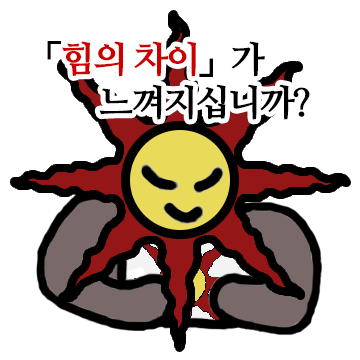
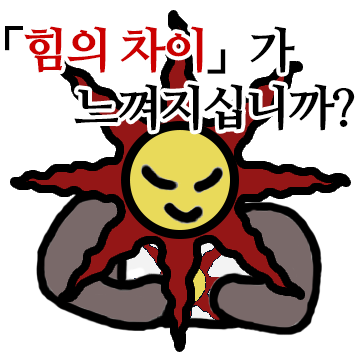
Jaws v0.1.12
- 이모티콘 추가 (제리감사)
- 이모티콘 수정 (힘의차이)
- 이모티콘 제거 (힘의차이)

Changed region(s): [[0.0611, 0.0611, 1.0, 0.3972], [0.0, 0.0611, 0.0611, 0.1528]]

diff --git a/lib/dccon_list.js b/lib/dccon_list.js
@@ -5,11 +5,13 @@ dcConsData = [
 	{ name: "죠하.png", keywords: ["죠하"] },
 	{ name: "죠바.png", keywords: ["죠바"] },
 
+	// 톰과제리
+	{ name: "제리감사.png", keywords: ["감사", "제리감사"] },
+
 	// 다크소울
 	{ name: "태양만세.jpg", keywords: ["태양만세", "Y"] },
 	{ name: "죠스힘의차이.png", keywords: ["힘의차이", "power"] },
 	{ name: "솔라힘의차이.png", keywords: ["힘의차이2", "힘의차2", "power2"] },	
-	{ name: "죠스힘의차이2.png", keywords: ["힘의차이3", "power3"] },
 
 	// 래트로폴리스
 	{ name: "래트로_도공.png", keywords: ["도공"] },

diff --git a/README.md b/README.md
@@ -1,6 +1,6 @@
 # 죠스콘
 ## 게임하는 죠스님을 위한 BBCC 디씨콘 채팅창 (Bridge BBCC for pgjaws)
-JawsBridgeBBCC v0.1.11
+JawsBridgeBBCC v0.1.12
 
 ## 설정법
 0. '게임하는죠스' 채널 기준으로 작성됨
